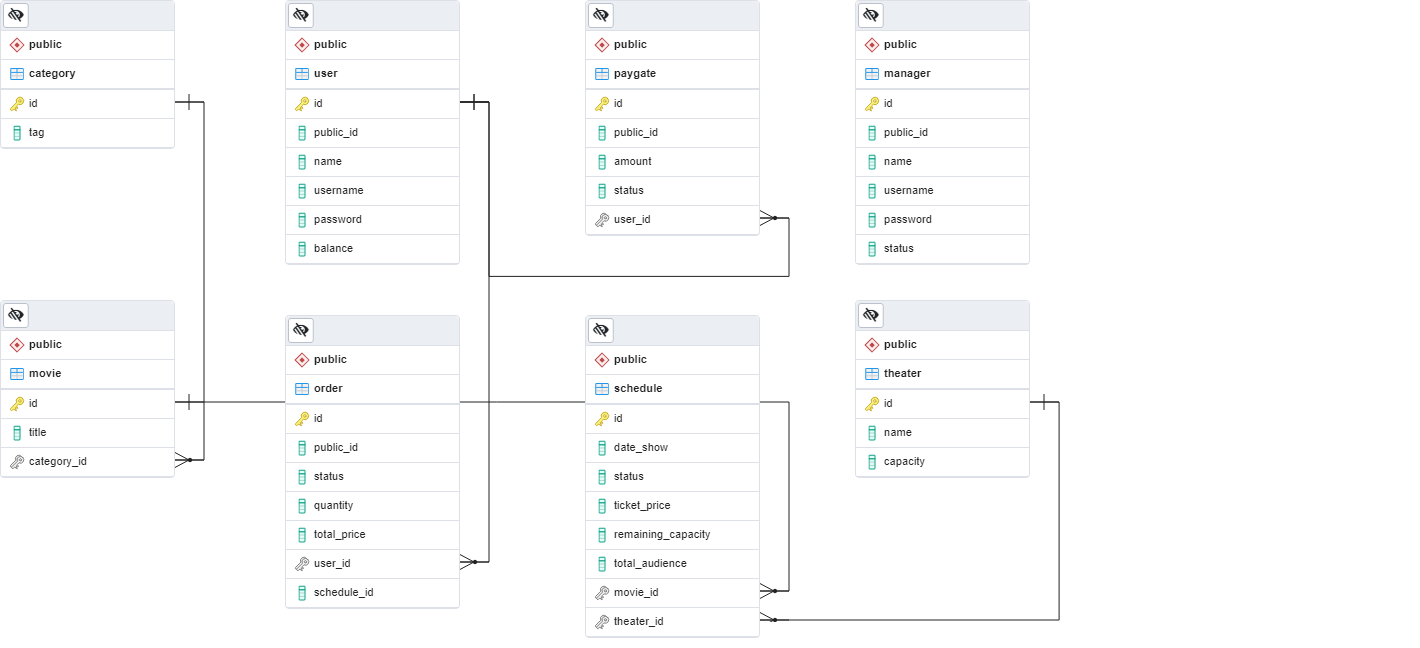
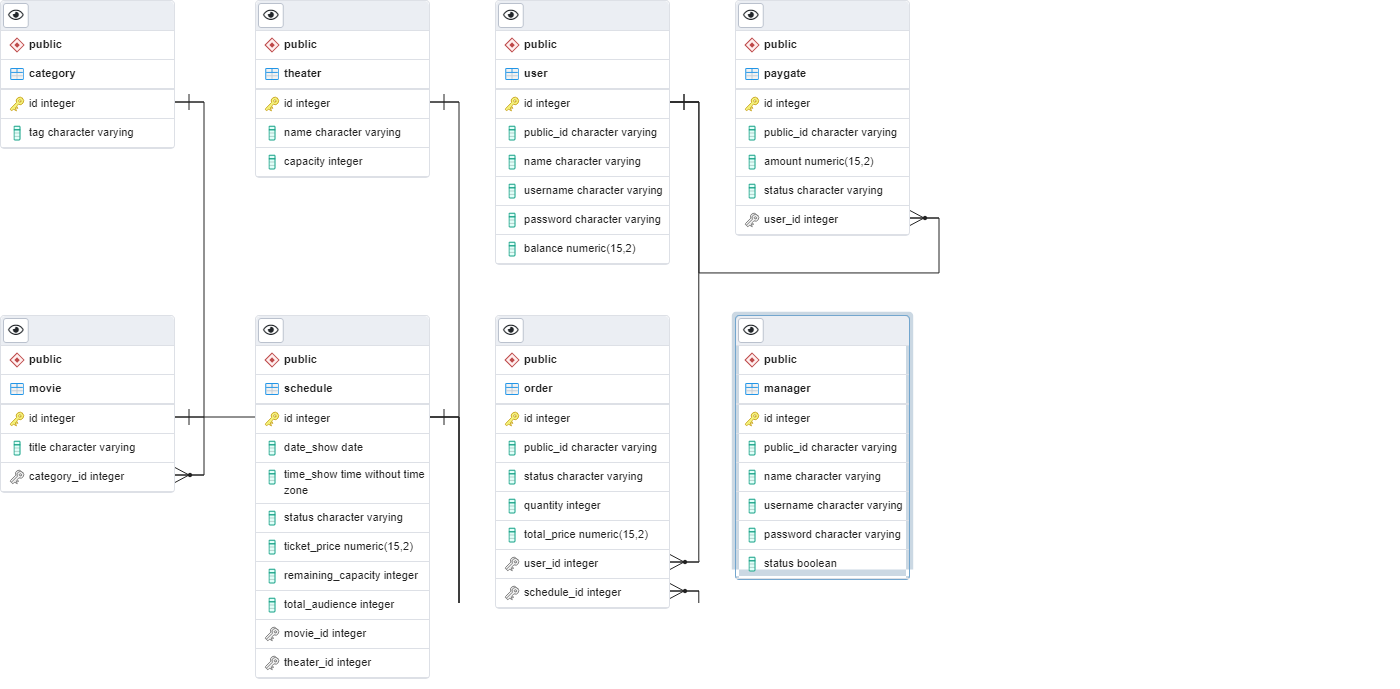
add variable for order and schedule

diff --git a/db_cinema.py b/db_cinema.py
@@ -47,6 +47,7 @@ class Theater(db.Model):
 class Schedule(db.Model):
     id=db.Column(db.Integer, primary_key=True, index=True)
     date_show=db.Column(db.Date)
+    time_show=db.Column(db.Time)
     status=db.Column(db.String)
     ticket_price=db.Column(db.Numeric(15,2), nullable=False)
     remaining_capacity=db.Column(db.Integer)
@@ -73,8 +74,8 @@ class Order(db.Model):
 
 
 # generate database schema on startup, if not exists:
-# db.create_all()
-# db.session.commit()
+db.create_all()
+db.session.commit()
 
 
 
@@ -120,7 +121,7 @@ def auth_user(auth):
     else:
         return 0
 
-# --------------- Automaticlly upate - Order
+# --------------- Automaticlly upate - Order User Ticket Holder
 def update_status_order():
     decode = request.headers.get('Authorization')
     allow = auth_manager(decode)
@@ -385,7 +386,9 @@ def search():
         lst.append(
             {
                 'status': x.status,
-                'date_show': x.date_show,
+                'date_show': x.date_show.strftime("%d-%m-%Y"),
+                'time_show': x.time_show.strftime("%H:%M"),
+                'remaining_capacity': x.remaining_capacity,
                 'title': x.title,
                 'name': x.theater
             }
@@ -583,7 +586,8 @@ def get_schedule():
     if schedule:
         return jsonify([
         {
-            'date_show': x.date_show,
+            'date_show': x.date_show.strftime("%d-%m-%Y"),
+            'time_show': x.time_show.strftime("%H:%M"),
             'ticket_price': x.ticket_price,
             'movie':{
                 'title': x.movie.title},
@@ -618,6 +622,7 @@ def create_schedule():
 
         schedule = Schedule(
             date_show=data['date_show'],
+            time_show=data['time_show'],
             status='Available',
             ticket_price=data['ticket_price'],
             remaining_capacity=theater.capacity,
@@ -673,7 +678,8 @@ def get_order(id):
                     'name': order.user.name
                 },
                 'schedule':{
-                    'date_show': order.schedule.date_show
+                    'date_show': order.schedule.date_show.strftime("%d-%m-%Y"),
+                    'time_show': order.schedule.time_show.strftime("%H:%M")
                 }
             } for order in Order.query.filter_by(user_id=user.id).all()
         ]), 200
@@ -694,14 +700,14 @@ def create_order(id):
             return {
                 'message': 'YOUR INFORMATION DATA IS INCOMPLETE !'
             }
-        result = db.engine.execute(f'''SELECT s.*, mv.title AS Title, th.name AS Theater FROM movie mv INNER JOIN schedule s on mv.id = s.movie_id INNER JOIN theater th on s.theater_id = th.id WHERE mv.title = '%s' and th.name = '%s' AND status = '%s' AND date_show = '%s' AND remaining_capacity > 0 ORDER BY mv.title'''%(data['title'],data['name'],'Available',data['date_show']))
+        result = db.engine.execute(f'''SELECT s.*, mv.title AS Title, th.name AS Theater FROM movie mv INNER JOIN schedule s on mv.id = s.movie_id INNER JOIN theater th on s.theater_id = th.id WHERE mv.title = '%s' and th.name = '%s' AND status = '%s' AND date_show = '%s' AND time_show = '%s' AND remaining_capacity > 0 ORDER BY mv.title'''%(data['title'],data['name'],'Available',data['date_show'],data['time_show']))
         for x in result:
             lst.append(x)
        
         if len(lst) == 0:
             return {
                 'message': 'YOUR REQUEST IS NOT IN OUR SCHEDULE !'
-            }, 400 # aman 
+            }, 400
   
         schedule = Schedule.query.filter_by(id=x.id).first()
         user = User.query.filter_by(public_id=allow).first()
